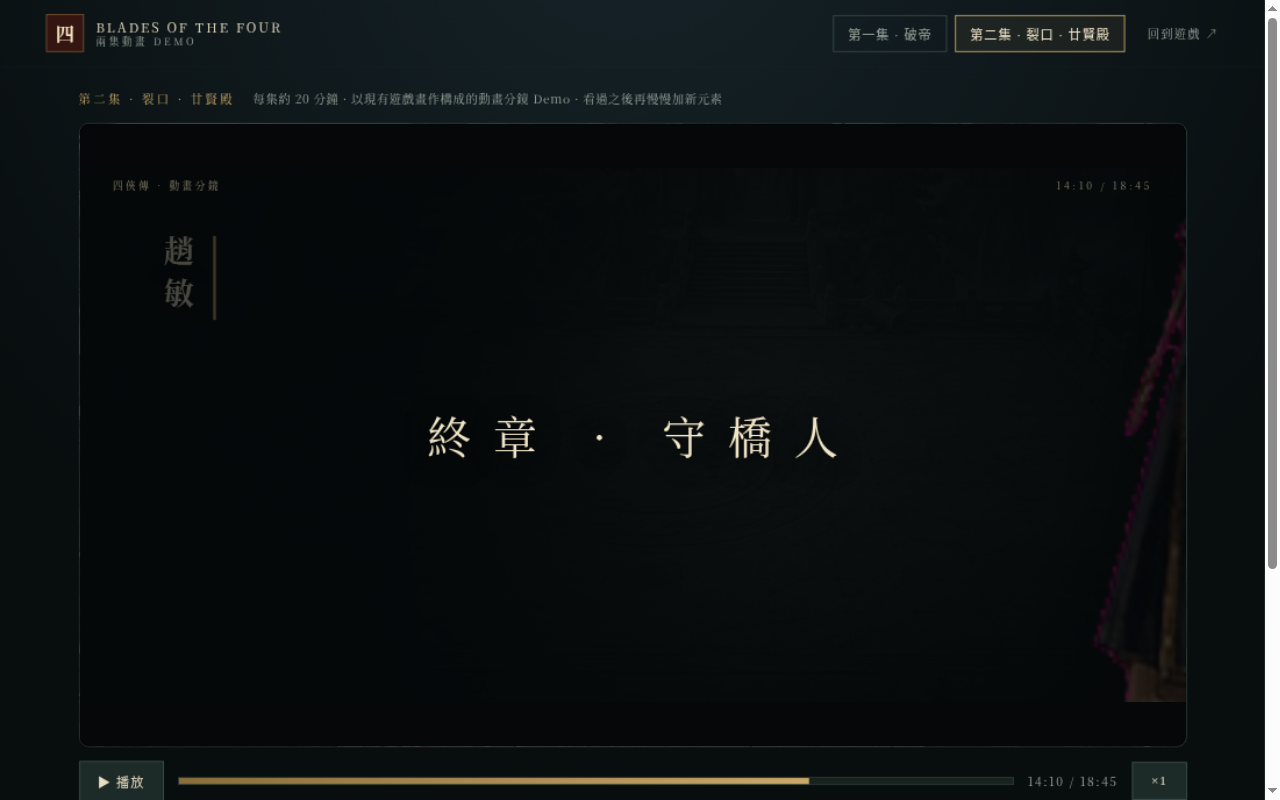
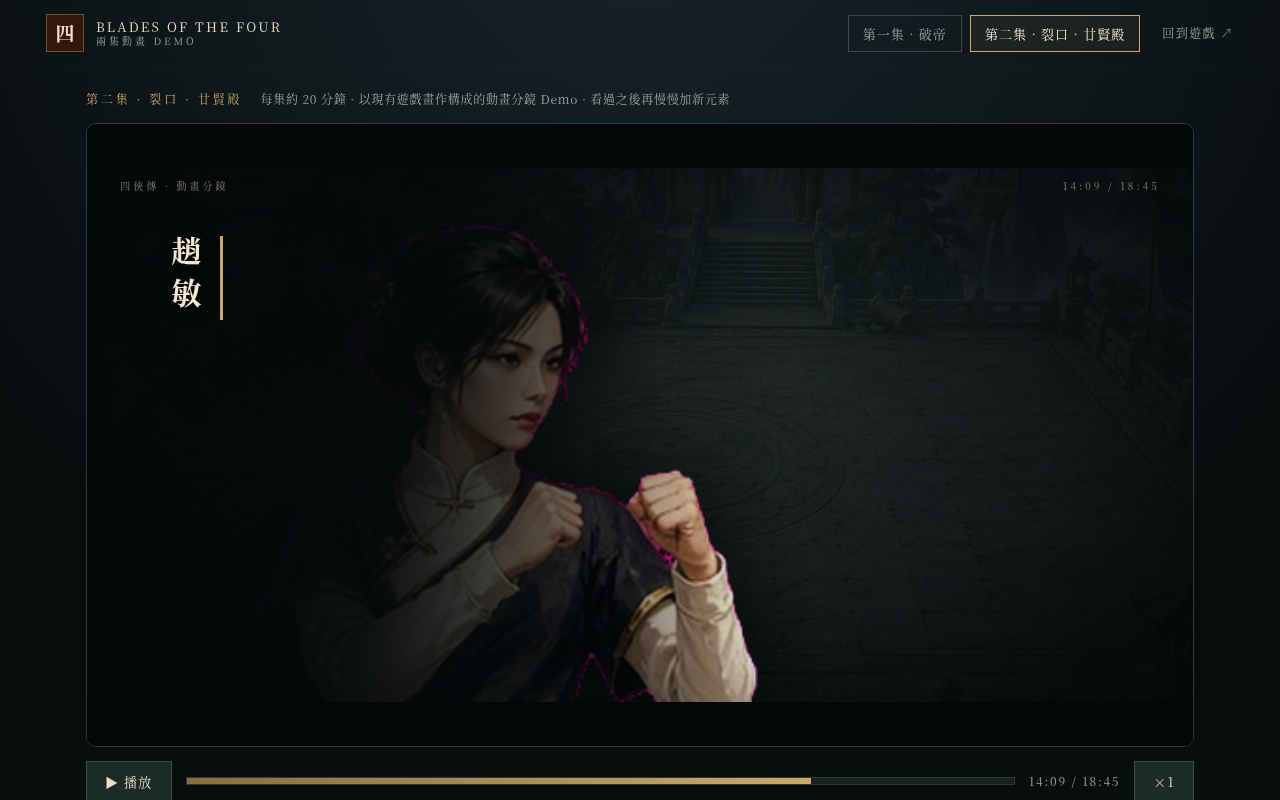
fix(jade-gate): close-ups anchor the measured head point, so the head is actually in frame
The first cut zoomed the art but kept grid centering, so the visible window
showed the middle of the figure (DOM proof: visible slice 0.34-0.50 = torso;
the head sat above the frame). Now the head position is measured per image at
runtime (canvas alpha scan: figure top/bottom -> eye line at top + 7% height;
atlas poses scan only their cell) and the image is translated so that eye
line pins to the upper third of the frame regardless of art kind or zoom.
Verified by DOM geometry (eye at 0.34-0.35 of frame, figure top inside the
window) plus capscreens 15-17 re-captured and re-checked.

diff --git a/prototype/jade-gate/animation.js b/prototype/jade-gate/animation.js
@@ -37,12 +37,113 @@ function portraitSrc(id) {
 }
 
 /** 每個角色塊面喺圖入面嘅位置（研究結論：面要填滿畫面、眼喺上面三分一）。
- *  寫實 2:3 全身畫嘅頭喺頂部 12-16%；方圖 sprite 頭喺頂部 6-10%。 */
-const FACE_FOCUS = {
-  painted: { x: "50%", y: "13%" },   // assets/{id}.png 全身 key art
-  wide:    { x: "50%", y: "10%" },   // 1280x720 橫幅 key art（zhao-min.jpg）
-  square:  { x: "50%", y: "9%" },    // 動作單張 / sprite
-};
+ *  唔靠估：canvas 掃描 alpha 量度人形頂（頭頂）同腳底，眼線 = 頭頂 + 7% 身高。
+ *  下面只係掃描失敗時嘅後備值。 */
+const FACE_FOCUS = { painted: "13%", wide: "10%", square: "9%" };
+
+/** 頭部錨點快取：src+pose → {x, y}（圖像百分比）。 */
+const anchorCache = new Map();
+
+function scanFigureRegion(data, w, h) {
+  const solid = (x, y) => data[(y * w + x) * 4 + 3] > 16;
+  let top = -1, bottom = -1;
+  for (let y = 0; y < h && top < 0; y++)
+    for (let x = 0; x < w; x++) if (solid(x, y)) { top = y; break; }
+  for (let y = h - 1; y >= 0 && bottom < 0; y--)
+    for (let x = 0; x < w; x++) if (solid(x, y)) { bottom = y; break; }
+  if (top < 0 || bottom - top < h * 0.2) return null; // 冇掃到人形
+  const headBottom = Math.min(h - 1, top + Math.round((bottom - top) * 0.16));
+  let xMin = w, xMax = -1;
+  for (let y = top; y <= headBottom; y++)
+    for (let x = 0; x < w; x++) if (solid(x, y)) { if (x < xMin) xMin = x; if (x > xMax) xMax = x; }
+  if (xMax < 0) return null;
+  const height = bottom - top || 1;
+  return {
+    x: (((xMin + xMax) / 2) / w) * 100,          // 頭心中線
+    y: ((top + height * 0.07) / h) * 100,        // 眼線
+  };
+}
+
+/** atlas 姿勢只掃該格：poseRects 有實際框，冇就用格仔座標（新 2×2 / 舊 4×3）。 */
+function poseRegionOf(atlas, pose, naturalW, naturalH) {
+  if (!atlas) return null;
+  const rect = atlas.poseRects?.[pose];
+  if (rect) return { x: rect[0], y: rect[1], w: rect[2], h: rect[3] };
+  const cell = atlas.duelPoses?.[pose];
+  if (!cell || !naturalW || !naturalH) return null;
+  const legacy = atlas.id.endsWith("-sheet");
+  const [cols, rows] = legacy ? [4, 3] : [2, 2];
+  const w = naturalW / cols, h = naturalH / rows;
+  return { x: cell[0] * w, y: cell[1] * h, w, h };
+}
+
+function measureAnchor(src, regionOf) {
+  return new Promise((resolve) => {
+    const image = new Image();
+    image.onload = () => {
+      try {
+        const r = regionOf ? regionOf(image) : { x: 0, y: 0, w: image.naturalWidth, h: image.naturalHeight };
+        const canvas = document.createElement("canvas");
+        canvas.width = Math.max(1, Math.round(r.w));
+        canvas.height = Math.max(1, Math.round(r.h));
+        const ctx = canvas.getContext("2d", { willReadFrequently: true });
+        ctx.drawImage(image, r.x, r.y, r.w, r.h, 0, 0, canvas.width, canvas.height);
+        resolve(scanFigureRegion(ctx.getImageData(0, 0, canvas.width, canvas.height).data, canvas.width, canvas.height));
+      } catch { resolve(null); }
+    };
+    image.onerror = () => resolve(null);
+    image.src = src;
+  });
+}
+
+/** 套用頭部錨點：即時用後備值，量度完（或命中快取）先覆寫 CSS 變數。
+ *  以 dataset.anchorKey 防止快 seek 時舊結果寫落新角色度。 */
+function applyAnchor(closeup, key, src, regionOf, fallbackY) {
+  closeup.dataset.anchorKey = key;
+  const cached = anchorCache.get(key);
+  if (cached) {
+    closeup.style.setProperty("--face-y", cached.y + "%");
+    closeup.style.setProperty("--head-x", cached.x + "%");
+    return;
+  }
+  closeup.style.setProperty("--face-y", fallbackY);
+  closeup.style.setProperty("--head-x", "50%");
+  measureAnchor(src, regionOf).then((anchor) => {
+    anchorCache.set(key, anchor || { x: 50, y: parseFloat(fallbackY) });
+    if (closeup.dataset.anchorKey !== key) return; // 鏡頭已經切咗
+    const hit = anchorCache.get(key);
+    closeup.style.setProperty("--face-y", hit.y + "%");
+    closeup.style.setProperty("--head-x", hit.x + "%");
+  });
+}
+
+/** 錨點要掃邊張圖：poseFiles 行用單張姿勢檔；atlas 行掃該格；其他掃全圖。 */
+function anchorTargetOf(id, pose) {
+  const entry = poseArt(id, pose);
+  const file = entry.atlas?.poseFiles?.[pose] || entry.src;
+  const regionOf = entry.atlas
+    ? entry.atlas.poseFiles?.[pose] ? null
+      : (image) => poseRegionOf(entry.atlas, pose, image.naturalWidth, image.naturalHeight)
+    : null;
+  return { file, regionOf, key: `${file}|${pose}` };
+}
+
+/** 播放前預熱：所有講者嘅錨點先量定，正式播放一刀落位。 */
+function warmAnchors(episode) {
+  for (const scene of episode.scenes)
+    for (const shot of shotsOf(scene)) {
+      if (shot.kind !== "closeup" || !shot.focus) continue;
+      const portrait = portraitSrc(shot.focus);
+      if (portrait) {
+        if (!anchorCache.has(portrait))
+          measureAnchor(portrait, null).then((a) => anchorCache.set(portrait, a || { x: 50, y: 13 }));
+      } else {
+        const { file, regionOf, key } = anchorTargetOf(shot.focus, shot.pose || "focus");
+        if (!anchorCache.has(key))
+          measureAnchor(file, regionOf).then((a) => anchorCache.set(key, a || { x: 50, y: 9 }));
+      }
+    }
+}
 
 /** 裁切級別（研究自對白鏡頭文法）：head 面部填滿、face 頭加肩、bust 半身。 */
 const CROP_ZOOM = {
@@ -721,13 +822,10 @@ function render() {
       const portrait = portraitSrc(shot.focus);
       const kind = portrait ? artKind(shot.focus) : "square";
       const crop = shot.crop || "face";
-      const focus = FACE_FOCUS[kind];
       if (portrait) {
         img.removeAttribute("style");
         img.className = "";
         img.src = portrait;
-        img.style.objectFit = "cover";
-        img.style.objectPosition = `${focus.x} ${focus.y}`;
       } else {
         applyPoseArt(img, shot.focus, shot.pose);
         img.style.height = CROP_ZOOM.square[crop === "head" ? "face" : crop];
@@ -738,6 +836,13 @@ function render() {
       const speakerSide = sideFor(scene, shot.focus);
       closeup.dataset.side = speakerSide;
       closeup.querySelector(".plate").textContent = nameOf(shot.focus);
+      // 頭部錨點（canvas 實測）：個頭永遠喺畫面入面，眼線落喺上面三分一。
+      if (portrait) {
+        applyAnchor(closeup, portrait, portrait, null, FACE_FOCUS[kind]);
+      } else {
+        const { file, regionOf, key } = anchorTargetOf(shot.focus, shot.pose || "focus");
+        applyAnchor(closeup, key, file, regionOf, FACE_FOCUS.square);
+      }
       restartAnimation(closeup, "cut");
     }
     if (shot.kind === "duel" || shot.kind === "fight") {
@@ -831,6 +936,7 @@ function loadEpisode(next) {
   clock = 0;
   playing = false;
   $("play").textContent = "▶ 播放";
+  warmAnchors(next);
   buildBeats(Math.max(...episode.scenes.map((scene) => scene.beats.length)));
   const chapters = $("chapters");
   chapters.innerHTML = "";

diff --git a/prototype/jade-gate/animation.css b/prototype/jade-gate/animation.css
@@ -101,15 +101,19 @@ main { max-width: 1180px; margin: 0 auto; padding: 22px clamp(14px, 3vw, 36px) 6
 /* 大頭鏡：動作 asset 裁切（唔一定要成個人） */
 .closeup {
   position: absolute; inset: 0; z-index: 4; margin: 0;
-  display: grid; place-items: center end;
   background: radial-gradient(ellipse at 50% 38%, #101c1cd8, #05090af2 82%);
   overflow: hidden;
+  --face-y: 13%; --head-x: 50%;   /* JS 用 canvas 實測錨點覆寫 */
 }
-/* 研究結論：講嘢鏡頭塊面填滿畫面、眼喺上面三分一；左右留視線空間（lead room）。 */
+/* 研究結論：講嘢鏡頭塊面填滿畫面、眼喺上面三分一。
+ * 做法：張圖絕對定位，用 translate(-var(--head-x), -var(--face-y)) 將「眼線」
+ * 呢一點釘死喺 top 34% / left 50%（上三分一線）——唔靠置中，所以無論邊種
+ * 畫種、放幾大，個頭一定喺畫面入面。height 百分比只負責 zoom。 */
 .closeup img {
-  max-width: none; object-fit: cover; object-position: 50% 13%;
+  position: absolute; top: 34%; left: 50%;
+  max-width: none; object-fit: cover;
   filter: drop-shadow(0 0 42px #000c) contrast(1.06);
-  transition: translate 0.6s var(--ease-film);
+  translate: calc(-1 * var(--head-x)) calc(-1 * var(--face-y));
 }
 /* 裁切級別 × 畫種：height 由驅動按 CROP_ZOOM 指定（head 420% ≈ 面部填滿）。 */
 .closeup[data-crop="head"] img { height: 420%; }
@@ -118,15 +122,12 @@ main { max-width: 1180px; margin: 0 auto; padding: 22px clamp(14px, 3vw, 36px) 6
 .closeup[data-kind="wide"][data-crop="head"] img { height: 360%; }
 .closeup[data-kind="wide"][data-crop="face"] img { height: 260%; }
 .closeup[data-kind="wide"][data-crop="bust"] img { height: 170%; }
-.closeup img.duel-pose, .closeup[data-kind="square"] img { object-position: 50% 9%; }
 .closeup[data-crop="head"] img.duel-pose { height: 440%; }
 .closeup[data-crop="face"] img.duel-pose { height: 310%; }
 
-/* 180 度軸線：left 機位塊面靠左望右（右邊留白），right 機位相反。 */
-.closeup[data-side="left"] { place-items: center end; }
-.closeup[data-side="left"] img { translate: -22cqw 0; }
-.closeup[data-side="right"] { place-items: center start; }
-.closeup[data-side="right"] img { translate: 22cqw 0; }
+/* 180 度軸線：left 機位個頭靠左望右（右邊留白），right 機位相反。 */
+.closeup[data-side="left"] img { translate: calc(-1 * var(--head-x) - 11cqw) calc(-1 * var(--face-y)); }
+.closeup[data-side="right"] img { translate: calc(-1 * var(--head-x) + 11cqw) calc(-1 * var(--face-y)); }
 .closeup[data-side="right"] .plate { left: auto; right: 7%; border-right: 0; border-left: 3px solid var(--gold); padding: 0 0 0 12px; }
 
 /* 對白大頭要「生」：微微呼吸同視線漂移。 */
